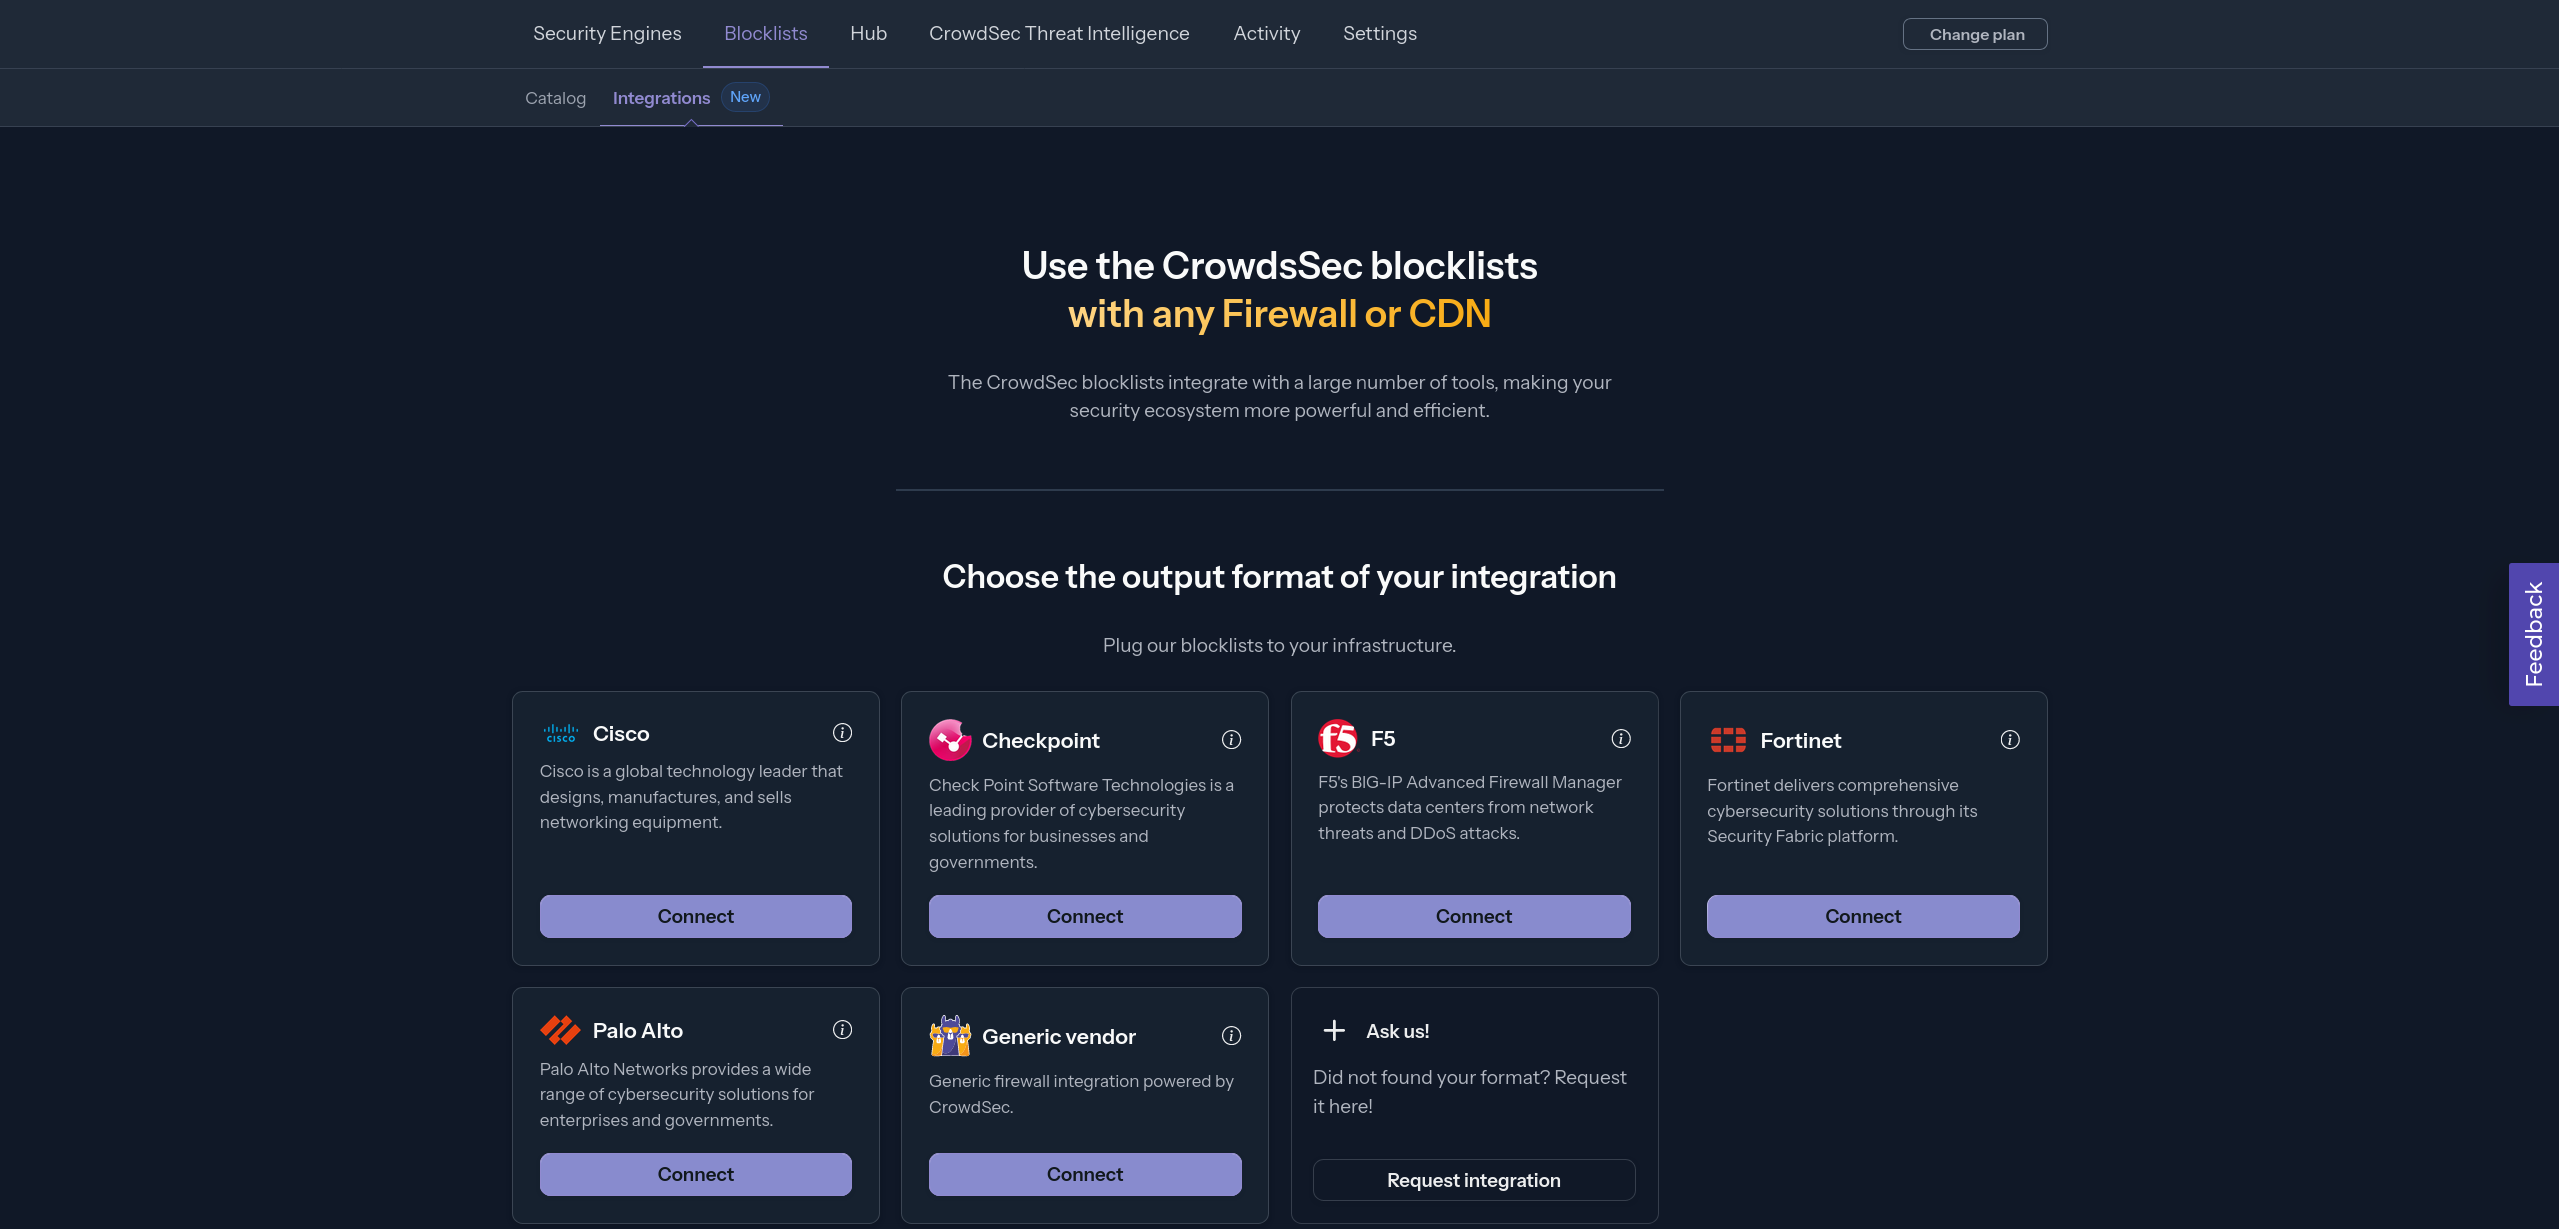
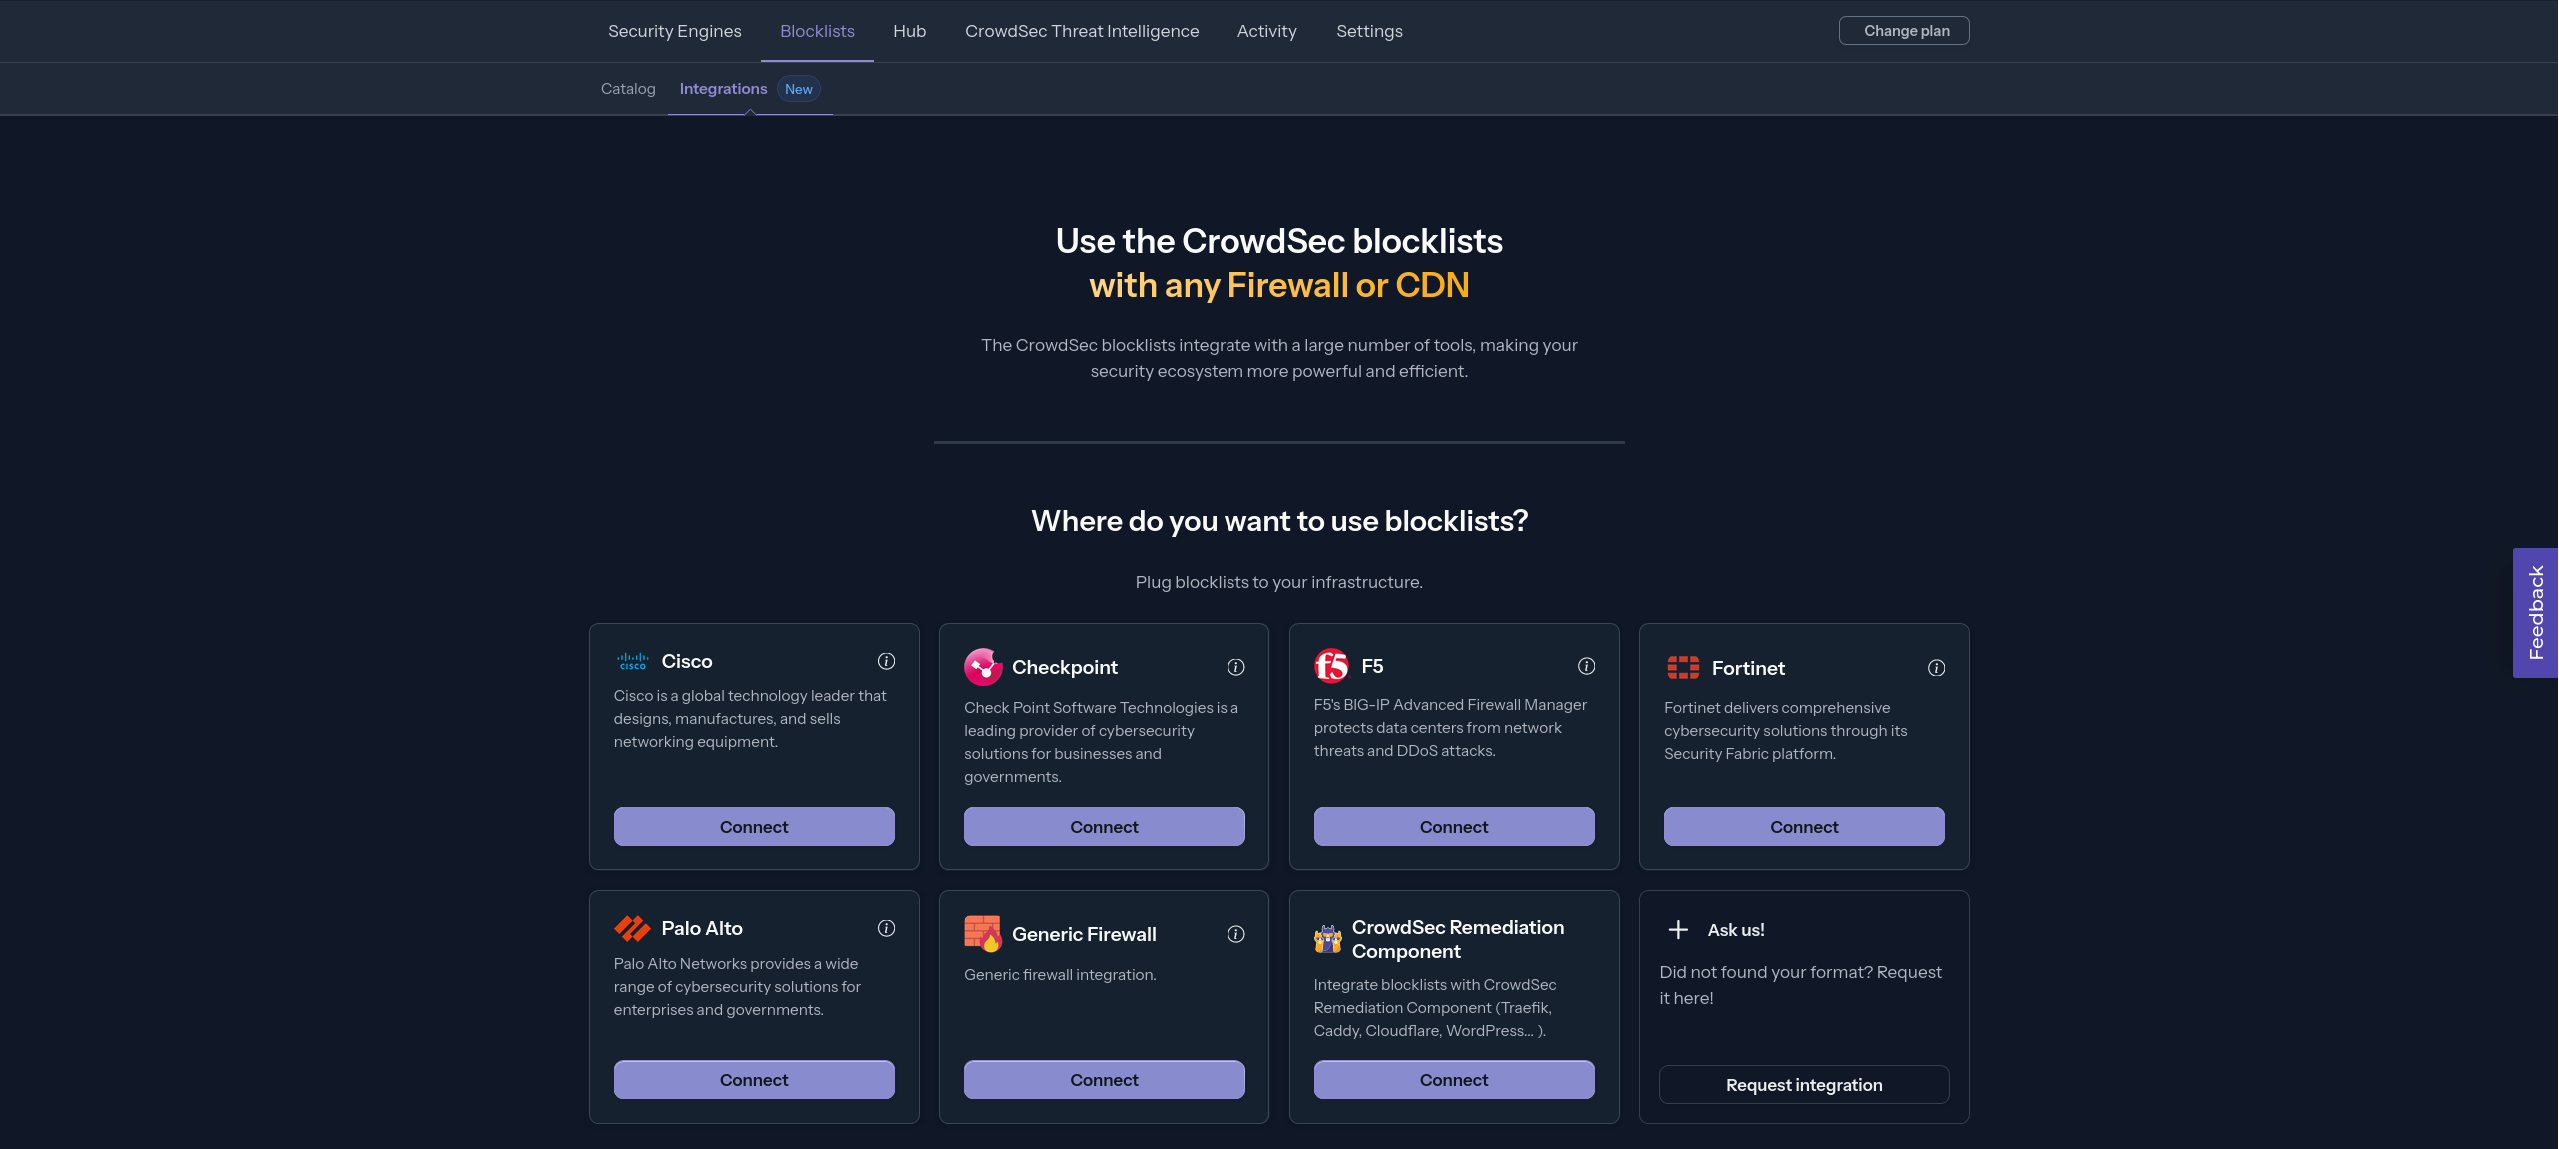
fix: update everything

diff --git a/crowdsec-docs/sidebarsUnversioned.js b/crowdsec-docs/sidebarsUnversioned.js
@@ -330,6 +330,7 @@ module.exports = {
                 "integrations/fortinet",
                 "integrations/paloalto",
                 "integrations/genericfirewall",
+                "integrations/remediationcomponent",
             ]
         }
     ],
